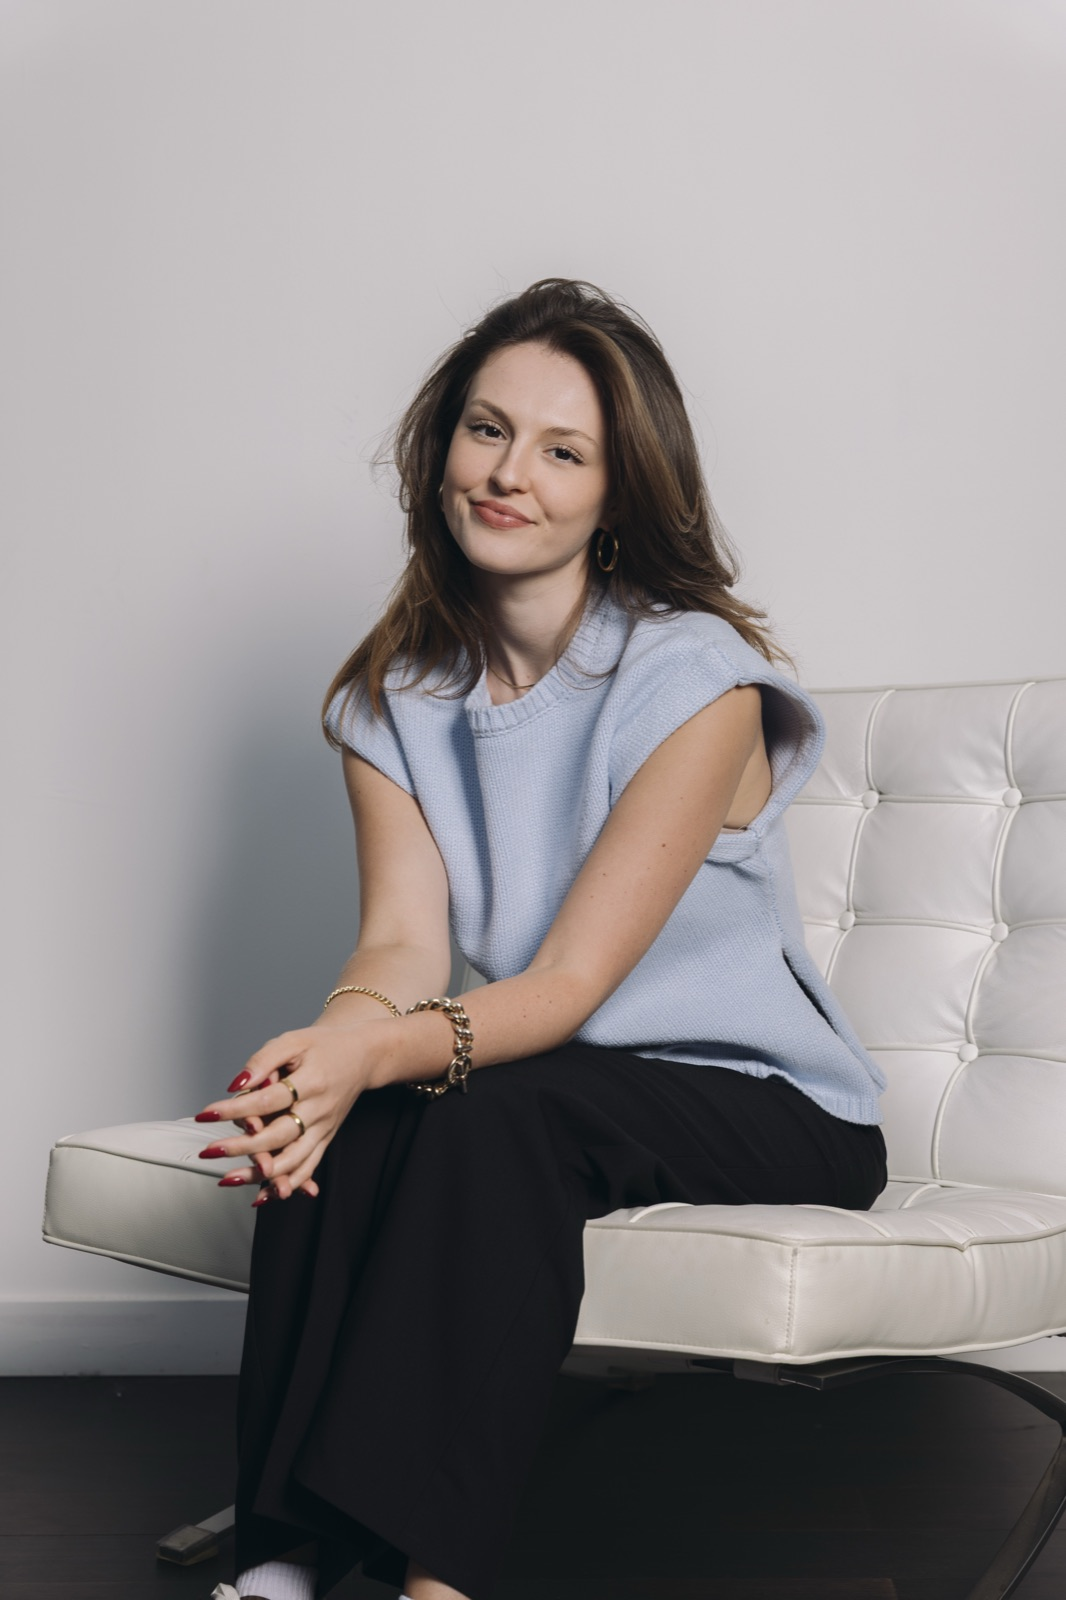
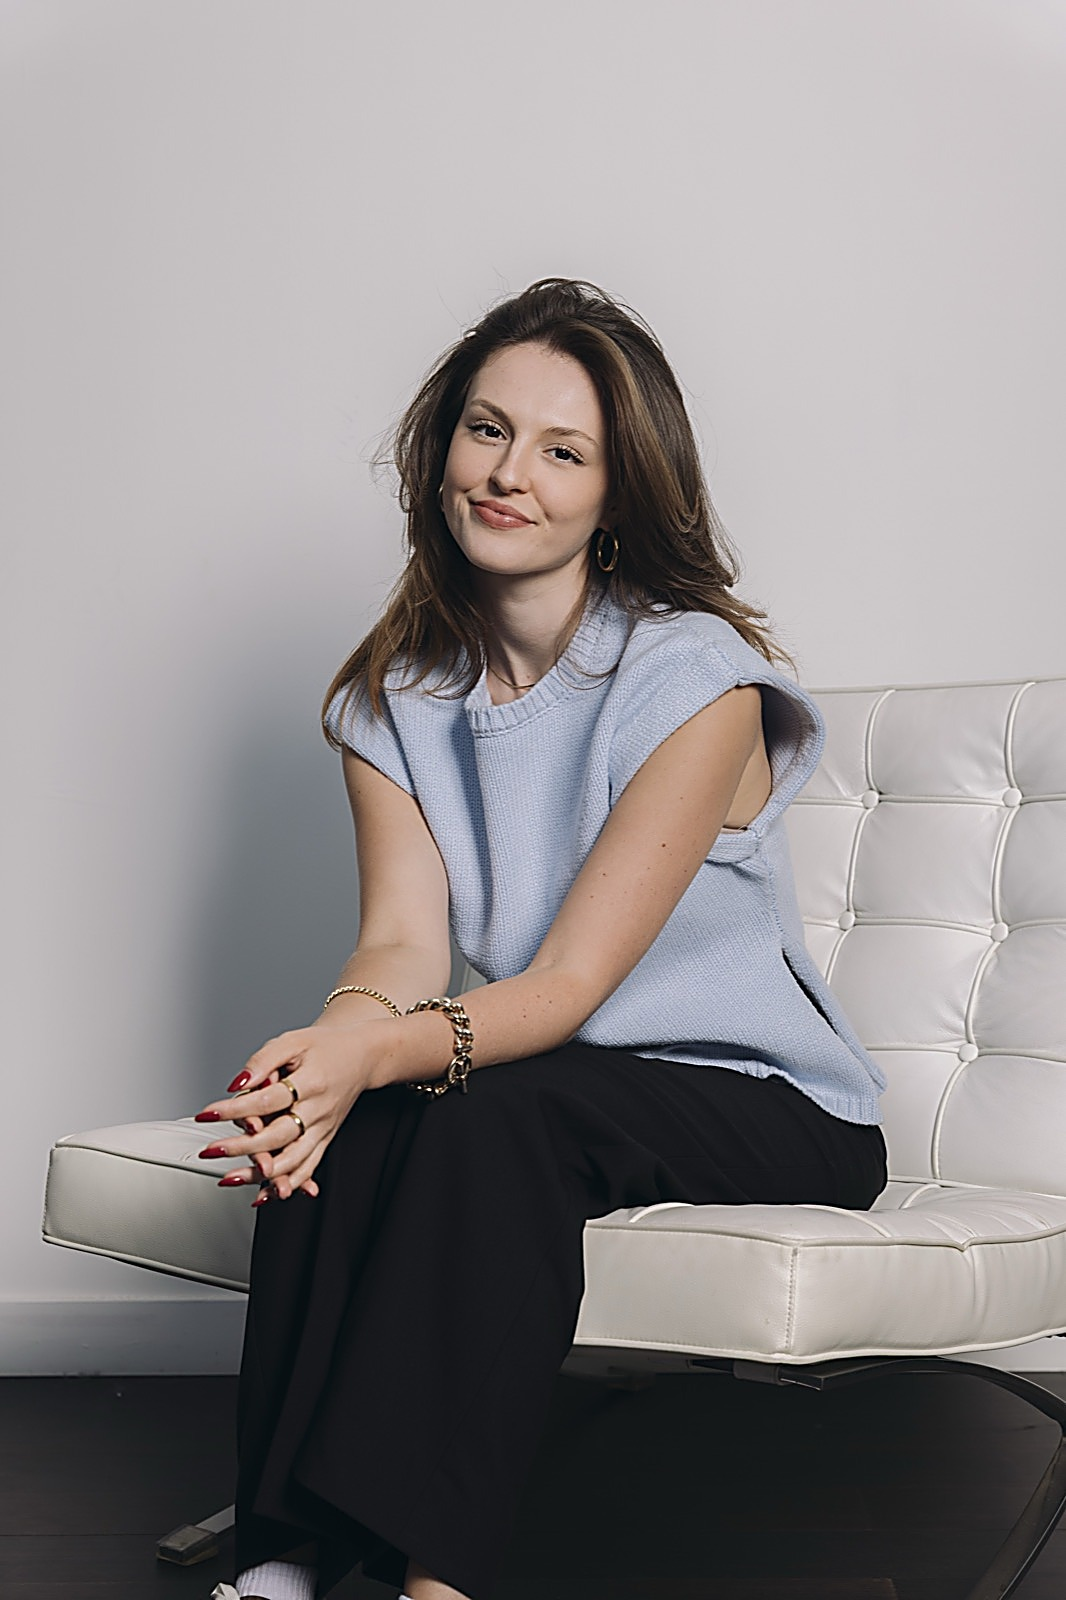
Design polish round: photo crops, spacing, real founder/testimonial photos
- Widened the homepage hero photo and re-cropped for better framing
- Fixed spacing/alignment: Companies roles-to-photo gap, Impact SDG
  card centering + ambition-box spacing, Cases subtitle line-wrap
- Made the Companies "types of roles" framing implicit (commercial/
  growth-side positioning) rather than an explicit blanket claim, and
  added a trailing "and more" chip so the list reads as examples
- Added a founders-together photo slot on About (drop-in pattern,
  graceful placeholder until filled) and real testimonial-photo slots
  on the Talent page's "Talent thriving" section
- Sourced and processed real photos: Bas Lemmens (sharpest available,
  cropped), Charlotte Pallandt and Thomke Tierolff (rotated + matched
  to a consistent black-and-white tone), and a founders-together photo
  for About, all cropped for good composition
- Sharpened the existing Eva/Wieke team photos (source files were soft)
- Normal-weight the info@ email link on About to match its neighbors
- Added a line about free matching-vacancy alerts to the homepage
  talent door copy

diff --git a/components/pages/TalentPage.tsx b/components/pages/TalentPage.tsx
@@ -1,8 +1,10 @@
 import { Button } from "@/components/ui/Button";
+import { Photo } from "@/components/ui/Photo";
 import { WhatsAppButton } from "@/components/site/WhatsAppButton";
 import { WhatsAppTrigger } from "@/components/site/WhatsAppTrigger";
 import { localePath, type Lang } from "@/lib/i18n/common";
 import { TALENT_THRIVING } from "@/lib/content/talent-thriving";
+import { findTestimonialPhoto } from "@/lib/logos";
 
 const COPY: Record<
   Lang,
@@ -121,7 +123,7 @@ export function TalentPage({ lang }: { lang: Lang }) {
         </div>
       </section>
 
-      <section className="wrap g-collapse" style={{ padding: "60px 32px", display: "grid", gridTemplateColumns: "1fr 1fr 1fr", gap: 20 }}>
+      <section className="wrap g-collapse" style={{ padding: "72px 32px", display: "grid", gridTemplateColumns: "1fr 1fr 1fr", gap: 20 }}>
         {c.resources.map((r) =>
           r.whats ? (
             <WhatsAppTrigger key={r.title} className="card" style={{ display: "block", padding: 26 }}>
@@ -136,7 +138,7 @@ export function TalentPage({ lang }: { lang: Lang }) {
       </section>
 
       <section style={{ background: "#fff", borderTop: "1px solid var(--border-hairline)", borderBottom: "1px solid var(--border-hairline)" }}>
-        <div className="wrap g-collapse" style={{ padding: "64px 32px", display: "grid", gridTemplateColumns: "1fr 1fr", gap: 44, alignItems: "center" }}>
+        <div className="wrap g-collapse" style={{ padding: "72px 32px", display: "grid", gridTemplateColumns: "1fr 1fr", gap: 44, alignItems: "center" }}>
           <div>
             <span className="voids-eyebrow" style={{ color: "var(--voids-blue)" }}>{c.fitEyebrow}</span>
             <h2 className="anton section-h2" style={{ fontSize: 36, margin: "10px 0 14px" }}>
@@ -169,19 +171,49 @@ export function TalentPage({ lang }: { lang: Lang }) {
       </section>
 
       <section style={{ background: "var(--voids-beige)" }}>
-        <div className="wrap" style={{ padding: "64px 32px" }}>
+        <div className="wrap" style={{ padding: "72px 32px" }}>
           <span className="voids-eyebrow" style={{ color: "var(--voids-purple)" }}>{c.thrivingEyebrow}</span>
-          <h2 className="anton section-h2" style={{ fontSize: 30, margin: "10px 0 26px" }}>{c.thrivingTitle}</h2>
-          <div className="g-collapse" style={{ display: "grid", gridTemplateColumns: "1fr 1fr", gap: 22 }}>
-            {TALENT_THRIVING[lang].map((t) => (
-              <div key={t.name} className="card" style={{ padding: 26 }}>
-                <p style={{ fontSize: 15, lineHeight: 1.6, color: "var(--voids-ink)", margin: "0 0 16px" }}>
-                  &ldquo;{t.quote}&rdquo;
-                </p>
-                <div style={{ fontSize: 14, fontWeight: 600 }}>{t.name}</div>
-                <div style={{ fontSize: 13, color: "var(--voids-ink-muted)" }}>{t.role}</div>
-              </div>
-            ))}
+          <h2 className="anton section-h2" style={{ fontSize: 30, margin: "10px 0 30px" }}>{c.thrivingTitle}</h2>
+          <div className="g-collapse" style={{ display: "grid", gridTemplateColumns: "1fr 1fr", gap: 24 }}>
+            {TALENT_THRIVING[lang].map((t) => {
+              const photo = findTestimonialPhoto(t.slug);
+              return (
+                <div key={t.name} className="card" style={{ padding: 26 }}>
+                  <p style={{ fontSize: 15, lineHeight: 1.6, color: "var(--voids-ink)", margin: "0 0 18px" }}>
+                    &ldquo;{t.quote}&rdquo;
+                  </p>
+                  <div style={{ display: "flex", alignItems: "center", gap: 13 }}>
+                    {photo ? (
+                      <div style={{ width: 46, height: 46, borderRadius: "50%", flex: "none", overflow: "hidden", position: "relative" }}>
+                        <Photo src={photo} alt={t.name} ratio="1 / 1" radius="0" sizes="46px" />
+                      </div>
+                    ) : (
+                      <div
+                        style={{
+                          width: 46,
+                          height: 46,
+                          borderRadius: "50%",
+                          flex: "none",
+                          background: "var(--voids-purple-100)",
+                          color: "var(--voids-purple)",
+                          display: "flex",
+                          alignItems: "center",
+                          justifyContent: "center",
+                          fontWeight: 700,
+                          fontSize: 15,
+                        }}
+                      >
+                        {t.name.charAt(0)}
+                      </div>
+                    )}
+                    <div>
+                      <div style={{ fontSize: 14, fontWeight: 600 }}>{t.name}</div>
+                      <div style={{ fontSize: 13, color: "var(--voids-ink-muted)" }}>{t.role}</div>
+                    </div>
+                  </div>
+                </div>
+              );
+            })}
           </div>
         </div>
       </section>

diff --git a/components/pages/AboutPage.tsx b/components/pages/AboutPage.tsx
@@ -2,6 +2,7 @@ import { Photo } from "@/components/ui/Photo";
 import { ContactForm } from "@/components/pages/ContactForm";
 import { SOCIALS, type Lang } from "@/lib/i18n/common";
 import { TEAM } from "@/lib/content/team";
+import { findTeamPhoto } from "@/lib/logos";
 
 const COPY: Record<
   Lang,
@@ -13,6 +14,8 @@ const COPY: Record<
     whatEyebrow: string;
     whatTitle: string;
     whatCards: { title: string; text: string }[];
+    foundersAlt: string;
+    foundersPending: string;
     teamTitle: string;
     coFounder: string;
     contactTitle: string;
@@ -37,6 +40,8 @@ const COPY: Record<
         text: "4.000+ studenten en starters in onze WhatsApp-community, plus een jobboard waar bedrijven vacatures rechtstreeks onder de aandacht brengen.",
       },
     ],
+    foundersAlt: "Eva en Wieke, de oprichters van VOIDS",
+    foundersPending: "Foto van Eva & Wieke volgt",
     teamTitle: "HET TEAM",
     coFounder: "Co-founder",
     contactTitle: "SNEL SCHAKELEN?",
@@ -60,6 +65,8 @@ const COPY: Record<
         text: "4,000+ students and starters in our WhatsApp community, plus a job board where companies put vacancies directly in front of them.",
       },
     ],
+    foundersAlt: "Eva and Wieke, the founders of VOIDS",
+    foundersPending: "Photo of Eva & Wieke coming soon",
     teamTitle: "THE TEAM",
     coFounder: "Co-founder",
     contactTitle: "WANT TO MOVE FAST?",
@@ -70,6 +77,7 @@ const COPY: Record<
 
 export function AboutPage({ lang }: { lang: Lang }) {
   const c = COPY[lang];
+  const foundersPhoto = findTeamPhoto("together");
 
   return (
     <>
@@ -80,7 +88,25 @@ export function AboutPage({ lang }: { lang: Lang }) {
           <p style={{ fontSize: 16, lineHeight: 1.65, color: "var(--voids-ink-muted)", margin: "0 0 14px" }}>{c.p1}</p>
           <p style={{ fontSize: 16, lineHeight: 1.65, color: "var(--voids-ink-muted)", margin: 0 }}>{c.p2}</p>
         </div>
-        <Photo src="/photography/about-hero.jpg" alt="Aan het werk op kantoor, met uitzicht over Amsterdam" ratio="4 / 5" />
+        {foundersPhoto ? (
+          <Photo src={foundersPhoto} alt={c.foundersAlt} ratio="4 / 5" />
+        ) : (
+          <div
+            style={{
+              aspectRatio: "4 / 5",
+              borderRadius: "var(--radius-lg)",
+              border: "1px dashed var(--voids-line)",
+              background: "var(--voids-beige)",
+              display: "flex",
+              alignItems: "center",
+              justifyContent: "center",
+              padding: 24,
+              textAlign: "center",
+            }}
+          >
+            <span style={{ fontSize: 13, color: "var(--voids-ink-muted)" }}>{c.foundersPending}</span>
+          </div>
+        )}
       </section>
 
       <section style={{ background: "#fff", borderTop: "1px solid var(--border-hairline)", borderBottom: "1px solid var(--border-hairline)" }}>
@@ -120,7 +146,7 @@ export function AboutPage({ lang }: { lang: Lang }) {
           <h2 className="anton section-h2" style={{ fontSize: 34, margin: "0 0 12px" }}>{c.contactTitle}</h2>
           <p style={{ fontSize: 15, lineHeight: 1.6, color: "var(--voids-ink-muted)", margin: "0 0 22px" }}>{c.contactSub}</p>
           <div style={{ display: "flex", flexDirection: "column", gap: 12 }}>
-            <a href="mailto:info@voids.agency" style={{ display: "flex", gap: 12, alignItems: "center", fontSize: 15, color: "var(--voids-ink)", fontWeight: 500 }}>
+            <a href="mailto:info@voids.agency" style={{ display: "flex", gap: 12, alignItems: "center", fontSize: 15, color: "var(--voids-ink)", fontWeight: 400 }}>
               📧 info@voids.agency
             </a>
             <div style={{ display: "flex", gap: 12, alignItems: "center", fontSize: 15, color: "var(--voids-ink-soft)" }}>📍 {c.location}</div>

diff --git a/components/pages/CompaniesPage.tsx b/components/pages/CompaniesPage.tsx
@@ -42,7 +42,7 @@ const COPY: Record<
     ctaIntro: "Plan een kennismaking",
     ctaPricing: "Bekijk tarieven",
     rolesEyebrow: "Soorten rollen",
-    rolesIntro: "Een greep uit de rollen die we invullen:",
+    rolesIntro: "Onze werkstudenten en stagiairs versterken vooral de commerciële en groeigerichte kant van je organisatie. Een greep uit de rollen die we invullen:",
     whyWsEyebrow: "Waarom werkstudent",
     whyWsTitle: "ONZE VOORKEUR, EN WAAROM.",
     processTitle: "HET HELE PROCES, UIT HANDEN.",
@@ -74,7 +74,7 @@ const COPY: Record<
     ctaIntro: "Book an intro call",
     ctaPricing: "View pricing",
     rolesEyebrow: "Types of roles",
-    rolesIntro: "A selection of the roles we fill:",
+    rolesIntro: "Our working students and interns mainly strengthen the commercial and growth side of your organisation. A selection of the roles we fill:",
     whyWsEyebrow: "Why a working student",
     whyWsTitle: "OUR PREFERENCE, AND WHY.",
     processTitle: "WE RUN THE WHOLE PROCESS.",
@@ -119,9 +119,9 @@ export function CompaniesPage({ lang }: { lang: Lang }) {
         </div>
       </section>
 
-      <section className="wrap" style={{ padding: "48px 32px 0" }}>
+      <section className="wrap" style={{ padding: "48px 32px 56px" }}>
         <span className="voids-eyebrow" style={{ color: "var(--voids-purple)" }}>{c.rolesEyebrow}</span>
-        <p style={{ fontSize: 15, lineHeight: 1.6, color: "var(--voids-ink-muted)", margin: "8px 0 18px", maxWidth: 560 }}>{c.rolesIntro}</p>
+        <p style={{ fontSize: 15, lineHeight: 1.6, color: "var(--voids-ink-muted)", margin: "8px 0 18px", maxWidth: 640 }}>{c.rolesIntro}</p>
         <div style={{ display: "flex", gap: 10, flexWrap: "wrap" }}>
           {ROLE_TYPES[lang].map((r, i) => {
             const isLast = i === ROLE_TYPES[lang].length - 1;
@@ -145,7 +145,9 @@ export function CompaniesPage({ lang }: { lang: Lang }) {
         </div>
       </section>
 
-      <Photo src="/photography/blog-2.jpg" alt="Werkstudent aan het werk op kantoor" ratio="16 / 6" radius="0" sizes="100vw" />
+      <div className="wrap" style={{ padding: "0 32px" }}>
+        <Photo src="/photography/blog-2.jpg" alt="Werkstudent aan het werk op kantoor" ratio="16 / 6" sizes="(max-width: 1200px) 100vw, 1136px" />
+      </div>
 
       <section className="wrap" style={{ padding: "64px 32px" }}>
         <div style={{ textAlign: "center", marginBottom: 36 }}>

diff --git a/components/pages/ImpactPage.tsx b/components/pages/ImpactPage.tsx
@@ -158,7 +158,7 @@ export function ImpactPage({ lang }: { lang: Lang }) {
 
       <Photo src="/photography/impact-band.jpg" alt="Werkstudenten aan het werk op kantoor" ratio="16 / 6" radius="0" sizes="100vw" />
 
-      <section className="wrap" style={{ padding: "60px 32px 0" }}>
+      <section className="wrap" style={{ padding: "60px 32px 48px" }}>
         <div className="g-collapse" style={{ display: "grid", gridTemplateColumns: "repeat(2, minmax(0, 1fr))", gap: 20 }}>
           {c.stats.map((s) => (
             <div key={s.text} className="card" style={{ padding: 28, textAlign: "center" }}>
@@ -187,7 +187,7 @@ export function ImpactPage({ lang }: { lang: Lang }) {
               const icon = findSdgIcon(s.num);
               return (
                 <div key={s.num} style={{ height: "100%", display: "flex", flexDirection: "column", borderRadius: "var(--radius-md)", overflow: "hidden", boxShadow: "var(--shadow-sm)" }}>
-                  <div style={{ background: s.color, minHeight: 180, display: "flex", alignItems: "center", justifyContent: "flex-start", padding: 24 }}>
+                  <div style={{ background: s.color, minHeight: 180, display: "flex", alignItems: "center", justifyContent: "center", padding: 24 }}>
                     {icon ? (
                       // eslint-disable-next-line @next/next/no-img-element
                       <img src={icon} alt={`SDG ${s.num}: ${s.title}`} style={{ width: 132, height: 132, borderRadius: 14, boxShadow: "0 6px 18px rgba(0,0,0,.18)" }} />
@@ -195,7 +195,7 @@ export function ImpactPage({ lang }: { lang: Lang }) {
                       <div className="anton" style={{ fontSize: 72, lineHeight: 0.9, color: "#fff" }}>{s.num}</div>
                     )}
                   </div>
-                  <div style={{ background: "#fff", padding: "18px 20px", flex: 1, display: "flex", flexDirection: "column", gap: 6 }}>
+                  <div style={{ background: "#fff", padding: "18px 20px", flex: 1, display: "flex", flexDirection: "column", gap: 6, textAlign: "center", alignItems: "center" }}>
                     <div style={{ fontSize: 15, fontWeight: 800, lineHeight: 1.25, color: s.color, overflowWrap: "anywhere" }}>{s.title}</div>
                     <p style={{ fontSize: 13.5, lineHeight: 1.55, color: "var(--voids-ink-muted)", margin: 0 }}>{s.text}</p>
                   </div>

diff --git a/components/pages/HomePage.tsx b/components/pages/HomePage.tsx
@@ -47,7 +47,7 @@ const COPY: Record<
     trustedBy: "VERTROUWD DOOR",
     doorTalentTitle: "VOOR TALENT",
     doorTalentText:
-      "Jij hoeft niet zelf op zoek naar vacatures: vertel ons wat je drijft, krijg gratis je career pager en sta meteen op de radar bij ambitieuze organisaties.",
+      "Jij hoeft niet zelf op zoek naar vacatures: vertel ons wat je drijft, krijg gratis je career pager en sta meteen op de radar bij ambitieuze organisaties. Nieuwe vacatures die bij je passen krijg je daarna gratis en automatisch toegestuurd.",
     doorTalentCta: "Ontdek de talentkant →",
     doorCompaniesTitle: "VOOR BEDRIJVEN",
     doorCompaniesText:
@@ -77,7 +77,7 @@ const COPY: Record<
     trustedBy: "TRUSTED BY",
     doorTalentTitle: "FOR TALENT",
     doorTalentText:
-      "No more trawling job boards: tell us what drives you, get your free career pager, and land on the radar of ambitious organisations straight away.",
+      "No more trawling job boards: tell us what drives you, get your free career pager, and land on the radar of ambitious organisations straight away. New matching vacancies then land in your inbox automatically, for free.",
     doorTalentCta: "Explore the talent side →",
     doorCompaniesTitle: "FOR COMPANIES",
     doorCompaniesText:
@@ -108,7 +108,7 @@ export function HomePage({ lang }: { lang: Lang }) {
           className="wrap g-collapse"
           style={{
             display: "grid",
-            gridTemplateColumns: "1.1fr .9fr",
+            gridTemplateColumns: ".95fr 1.15fr",
             gap: 44,
             alignItems: "center",
             padding: "70px 32px 76px",
@@ -144,7 +144,7 @@ export function HomePage({ lang }: { lang: Lang }) {
               </div>
             </div>
           </div>
-          <Photo src="/photography/home-hero.jpg" alt="Twee collega's aan het werk op kantoor" ratio="4 / 5" priority />
+          <Photo src="/photography/home-hero.jpg" alt="Twee collega's aan het werk op kantoor" ratio="4 / 3" priority />
         </div>
       </section>
 

diff --git a/lib/content/talent-thriving.ts b/lib/content/talent-thriving.ts
@@ -1,19 +1,21 @@
 import type { Lang } from "@/lib/i18n/common";
 
 /** Real quotes from placed working students, carried over from the previous voids.agency site. */
-export const TALENT_THRIVING: Record<Lang, { quote: string; name: string; role: string }[]> = {
+export const TALENT_THRIVING: Record<Lang, { quote: string; name: string; role: string; slug: string }[]> = {
   nl: [
     {
       quote:
         "Bij Meute, een creatief campagnebureau in Amsterdam, ondersteun ik het marketingteam bij het voorbereiden en coördineren van regionale en landelijke campagnes. Zonder VOIDS was ik deze relevante parttime rol nooit tegengekomen.",
       name: "Thomke Tierolff",
       role: "Werkstudent bij Meute",
+      slug: "thomke-tierolff",
     },
     {
       quote:
         "Als werkstudent was ik de sidekick van business coach Olivier Zeestraten bij #MasterJeCijfers: ik hielp trainingen voorbereiden en hield tijdens sessies alles op schema. Een leerzame manier om van echte klanten te leren.",
       name: "Charlotte Pallandt",
       role: "Werkstudent bij #MasterJeCijfers",
+      slug: "charlotte-pallandt",
     },
   ],
   en: [
@@ -22,12 +24,14 @@ export const TALENT_THRIVING: Record<Lang, { quote: string; name: string; role: 
         "At Meute, a creative campaign agency in Amsterdam, I support the marketing team in preparing and coordinating regional and national campaigns. Without VOIDS, I'd never have found this relevant part-time role.",
       name: "Thomke Tierolff",
       role: "Working student at Meute",
+      slug: "thomke-tierolff",
     },
     {
       quote:
         "As a working student I joined business coach Olivier Zeestraten at #MasterJeCijfers as his sidekick during client trainings, keeping everything on schedule. A great way to learn from real clients.",
       name: "Charlotte Pallandt",
       role: "Working student at #MasterJeCijfers",
+      slug: "charlotte-pallandt",
     },
   ],
 };

diff --git a/lib/content/home-content.ts b/lib/content/home-content.ts
@@ -43,6 +43,7 @@ export const TESTIMONIALS: Record<Lang, { quote: string; name: string; role: str
       quote: "VOIDS leverde binnen twee weken kandidaten die precies bij onze vraag pasten.",
       name: "Bas Lemmens",
       role: "Co-founder Booking.com · President HotelPlanner",
+      photo: "/testimonials/bas-lemmens.jpg",
     },
     {
       quote: "VOIDS matchte mijn sterke punten met de juiste kans: een baan die ik anders nooit was tegengekomen.",
@@ -56,6 +57,7 @@ export const TESTIMONIALS: Record<Lang, { quote: string; name: string; role: str
       quote: "VOIDS delivered candidates that fit our need exactly, within two weeks.",
       name: "Bas Lemmens",
       role: "Co-founder Booking.com · President HotelPlanner",
+      photo: "/testimonials/bas-lemmens.jpg",
     },
     {
       quote: "VOIDS matched my strengths with the right opportunity: a job I’d never have found otherwise.",

diff --git a/components/pages/CasesPage.tsx b/components/pages/CasesPage.tsx
@@ -26,7 +26,7 @@ export function CasesPage({ lang }: { lang: Lang }) {
       <section className="wrap" style={{ padding: "64px 32px 40px", maxWidth: 820 }}>
         <span className="voids-eyebrow" style={{ color: "var(--voids-purple)" }}>{c.eyebrow}</span>
         <h1 className="anton hero-h1" style={{ fontSize: 48, margin: "12px 0 12px" }}>{c.title}</h1>
-        <p style={{ fontSize: 16, color: "var(--voids-ink-muted)", margin: 0 }}>{c.sub}</p>
+        <p style={{ fontSize: 16, color: "var(--voids-ink-muted)", margin: 0, maxWidth: 620, textWrap: "balance" }}>{c.sub}</p>
       </section>
 
       <section className="wrap g-collapse" style={{ padding: "0 32px 30px", display: "grid", gridTemplateColumns: "repeat(3, minmax(0, 1fr))", gap: 20 }}>

diff --git a/lib/logos.ts b/lib/logos.ts
@@ -33,3 +33,13 @@ export function findLogoFile(slug: string): string | null {
 export function findSdgIcon(num: string): string | null {
   return findPublicAsset("sdg-icons", num);
 }
+
+/** Drop a matching file in /public/team/{slug}.jpg|.png to replace the placeholder (e.g. "together" for a founders photo). */
+export function findTeamPhoto(slug: string): string | null {
+  return findPublicAsset("team", slug);
+}
+
+/** Drop a matching file in /public/testimonials/{slug}.jpg|.png to add a photo to a quote. */
+export function findTestimonialPhoto(slug: string): string | null {
+  return findPublicAsset("testimonials", slug);
+}
